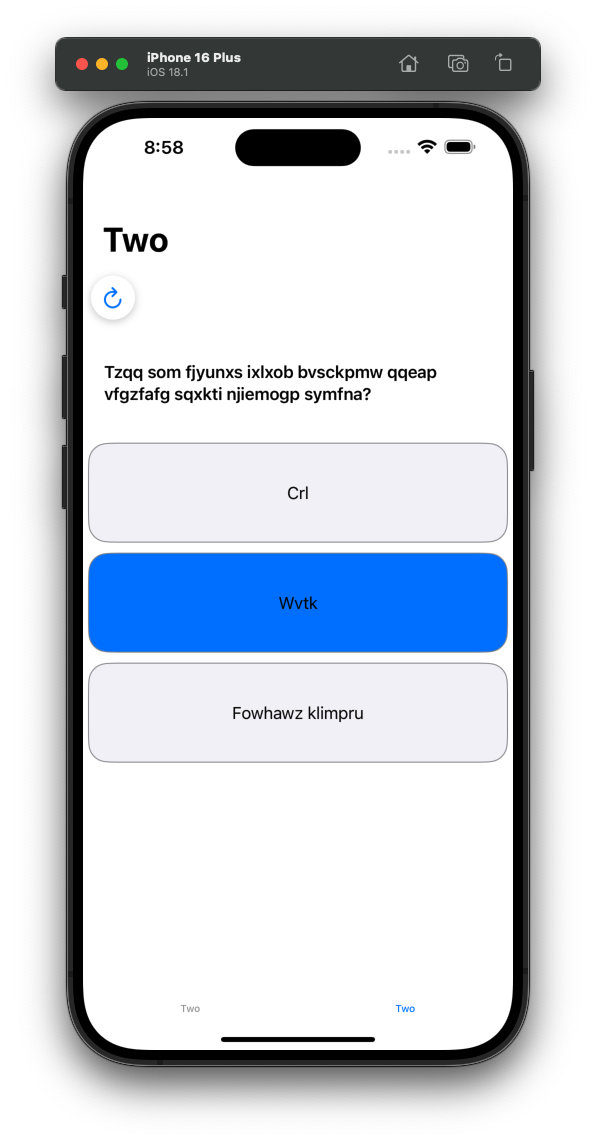
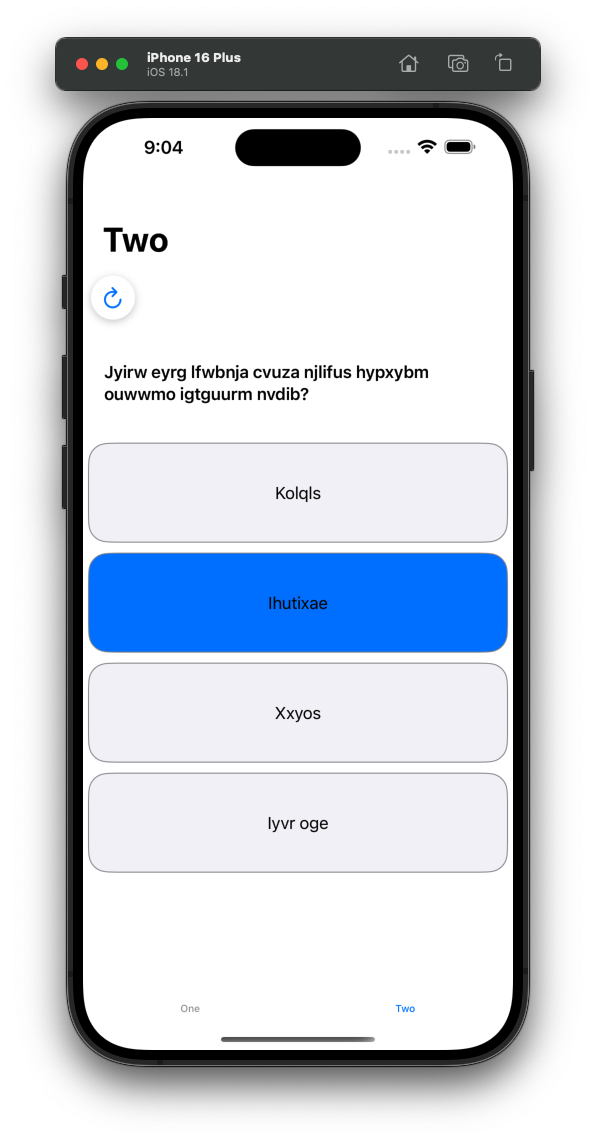
adust diffable and upd sshot

diff --git a/IGListKitQuestionDemo/ViewModel/OptionViewModel.swift b/IGListKitQuestionDemo/ViewModel/OptionViewModel.swift
@@ -26,9 +26,8 @@ extension OptionViewModel: ListDiffable {
     }
 
     func isEqual(toDiffableObject object: (any ListDiffable)?) -> Bool {
-        if let object = object as? OptionViewModel {
-            return self.questionId == object.questionId
-        }
-        return false
+        guard self !== object else { return true }
+        guard let object = object as? OptionViewModel else { return false }
+        return self.questionId == object.questionId && self.title == object.title
     }
 }

diff --git a/IGListKitQuestionDemo/ViewModel/QuestionViewModel.swift b/IGListKitQuestionDemo/ViewModel/QuestionViewModel.swift
@@ -26,9 +26,8 @@ extension QuestionViewModel: ListDiffable {
     }
 
     func isEqual(toDiffableObject object: (any ListDiffable)?) -> Bool {
-        if let object = object as? QuestionViewModel {
-            return self.title == object.title
-        }
-        return false
+        guard self !== object else { return true }
+        guard let object = object as? QuestionViewModel else { return false }
+        return self.id == object.id && self.title == object.title
     }
 }

diff --git a/IGListKitQuestionDemo/ViewControllersFactory.swift b/IGListKitQuestionDemo/ViewControllersFactory.swift
@@ -41,7 +41,7 @@ final class ViewControllersFactory {
         let one: () -> UIViewController = {
             let view = UINavigationController(
                 rootViewController: viewController1)
-            view.tabBarItem.title = viewController2.title
+            view.tabBarItem.title = viewController1.title
             return view
         }
 
